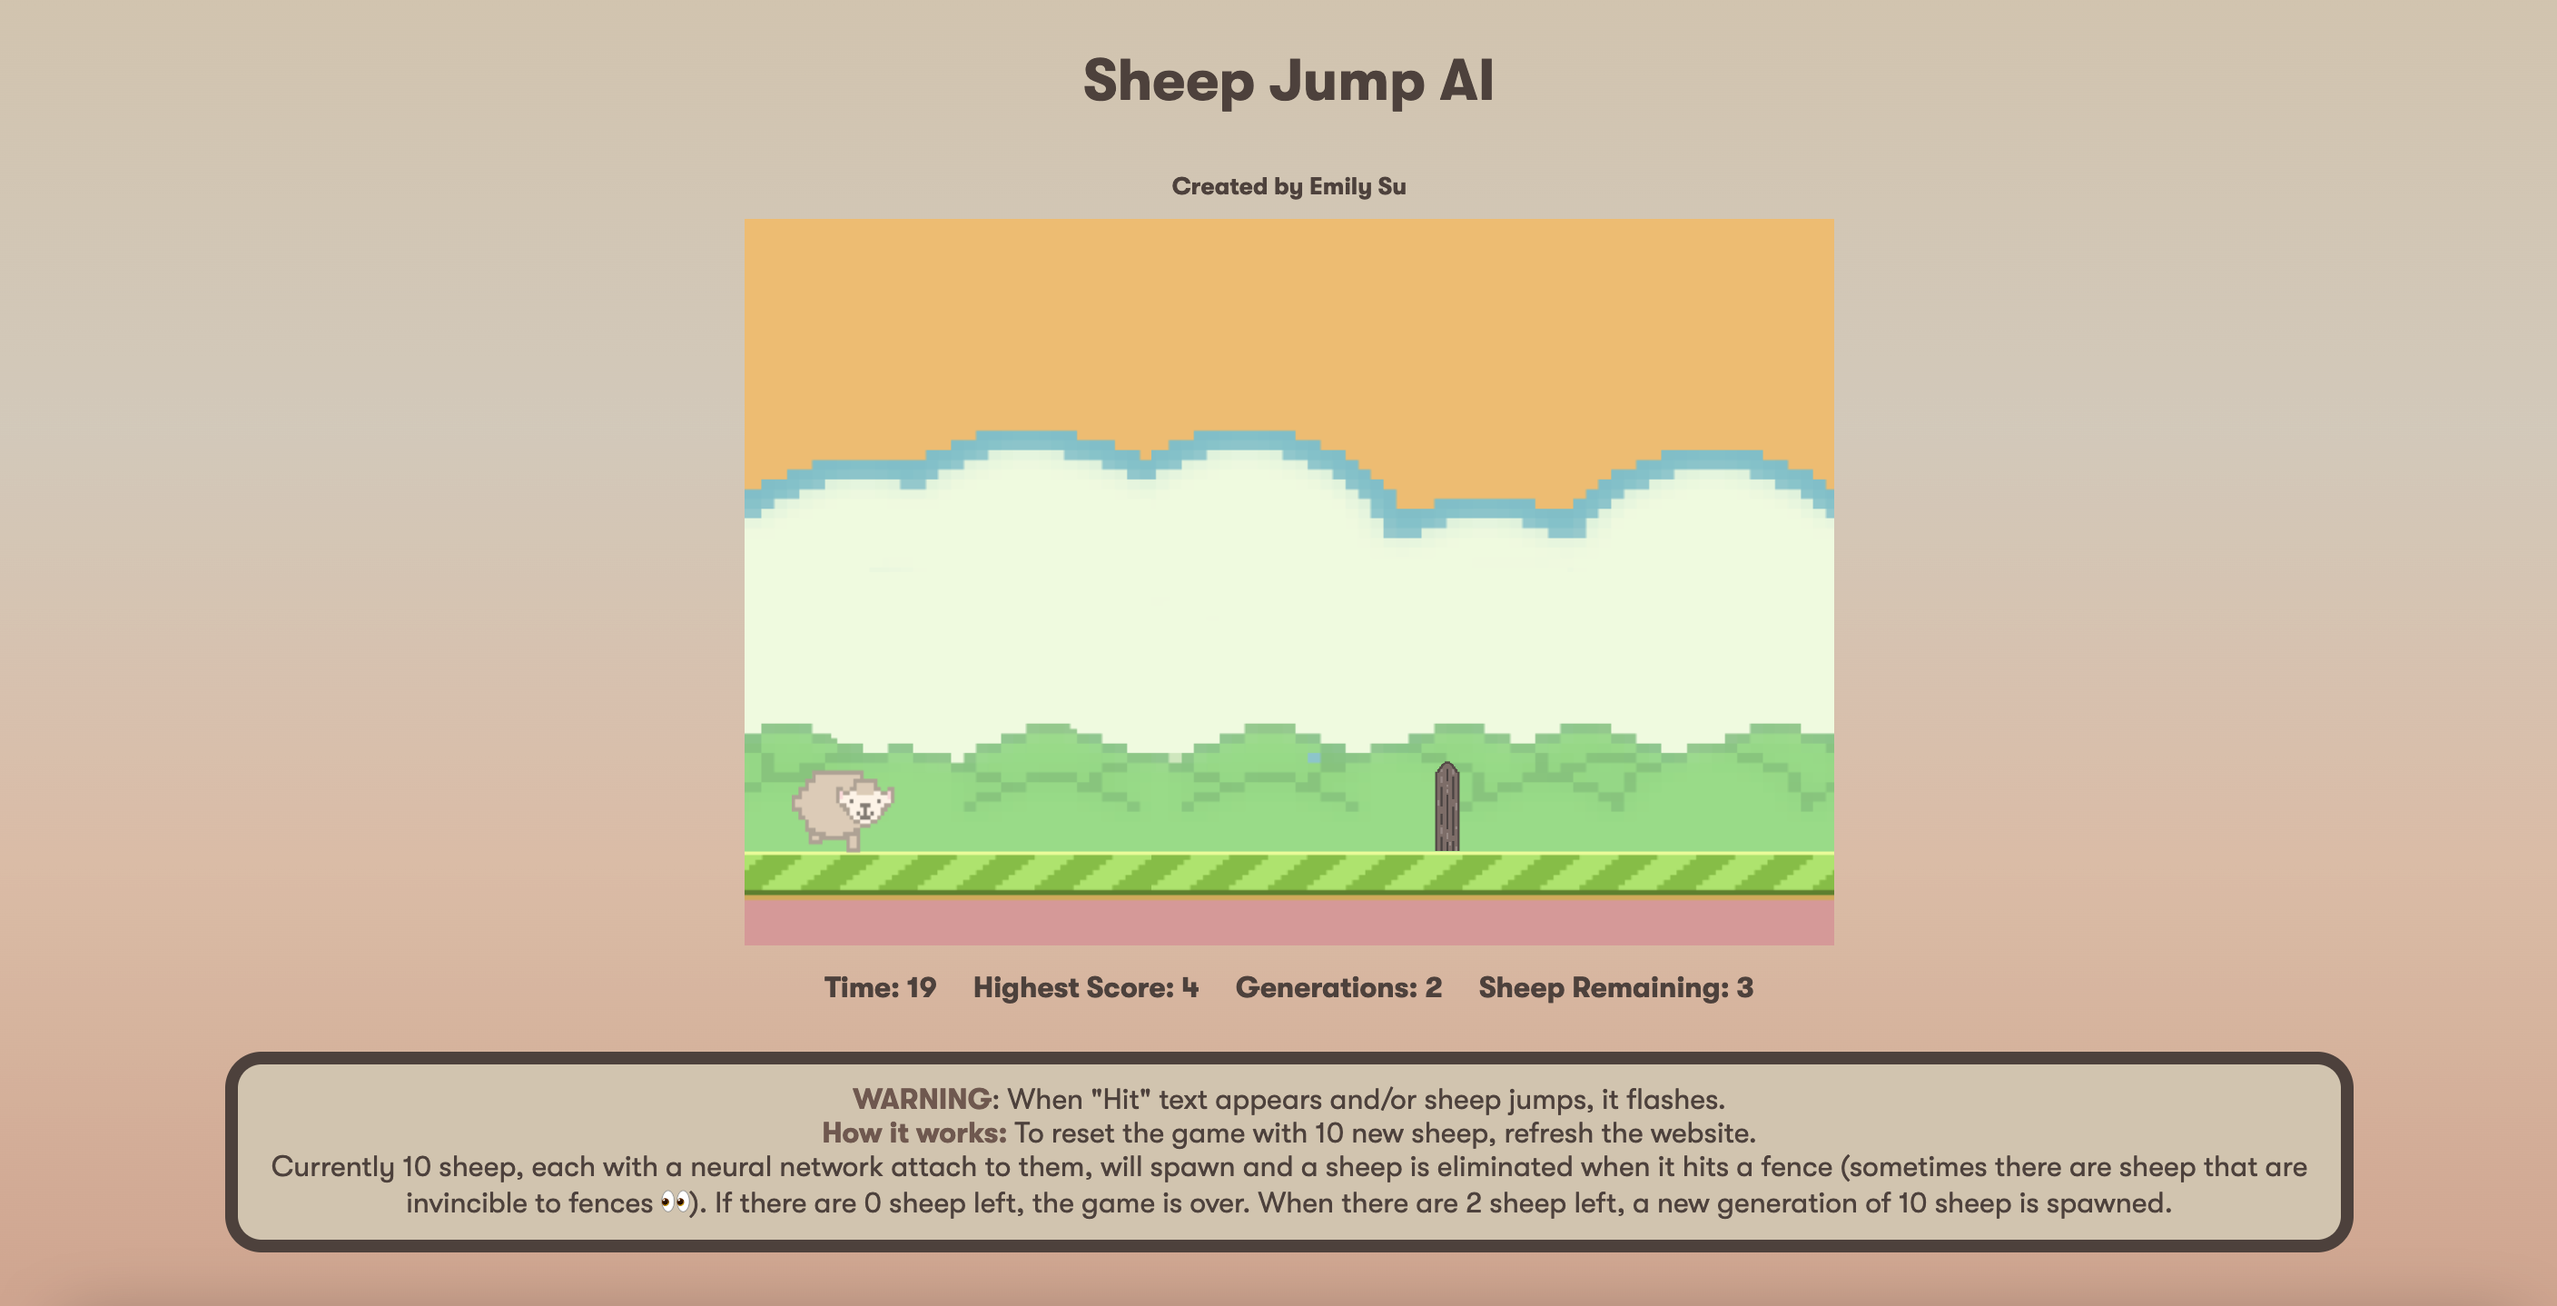
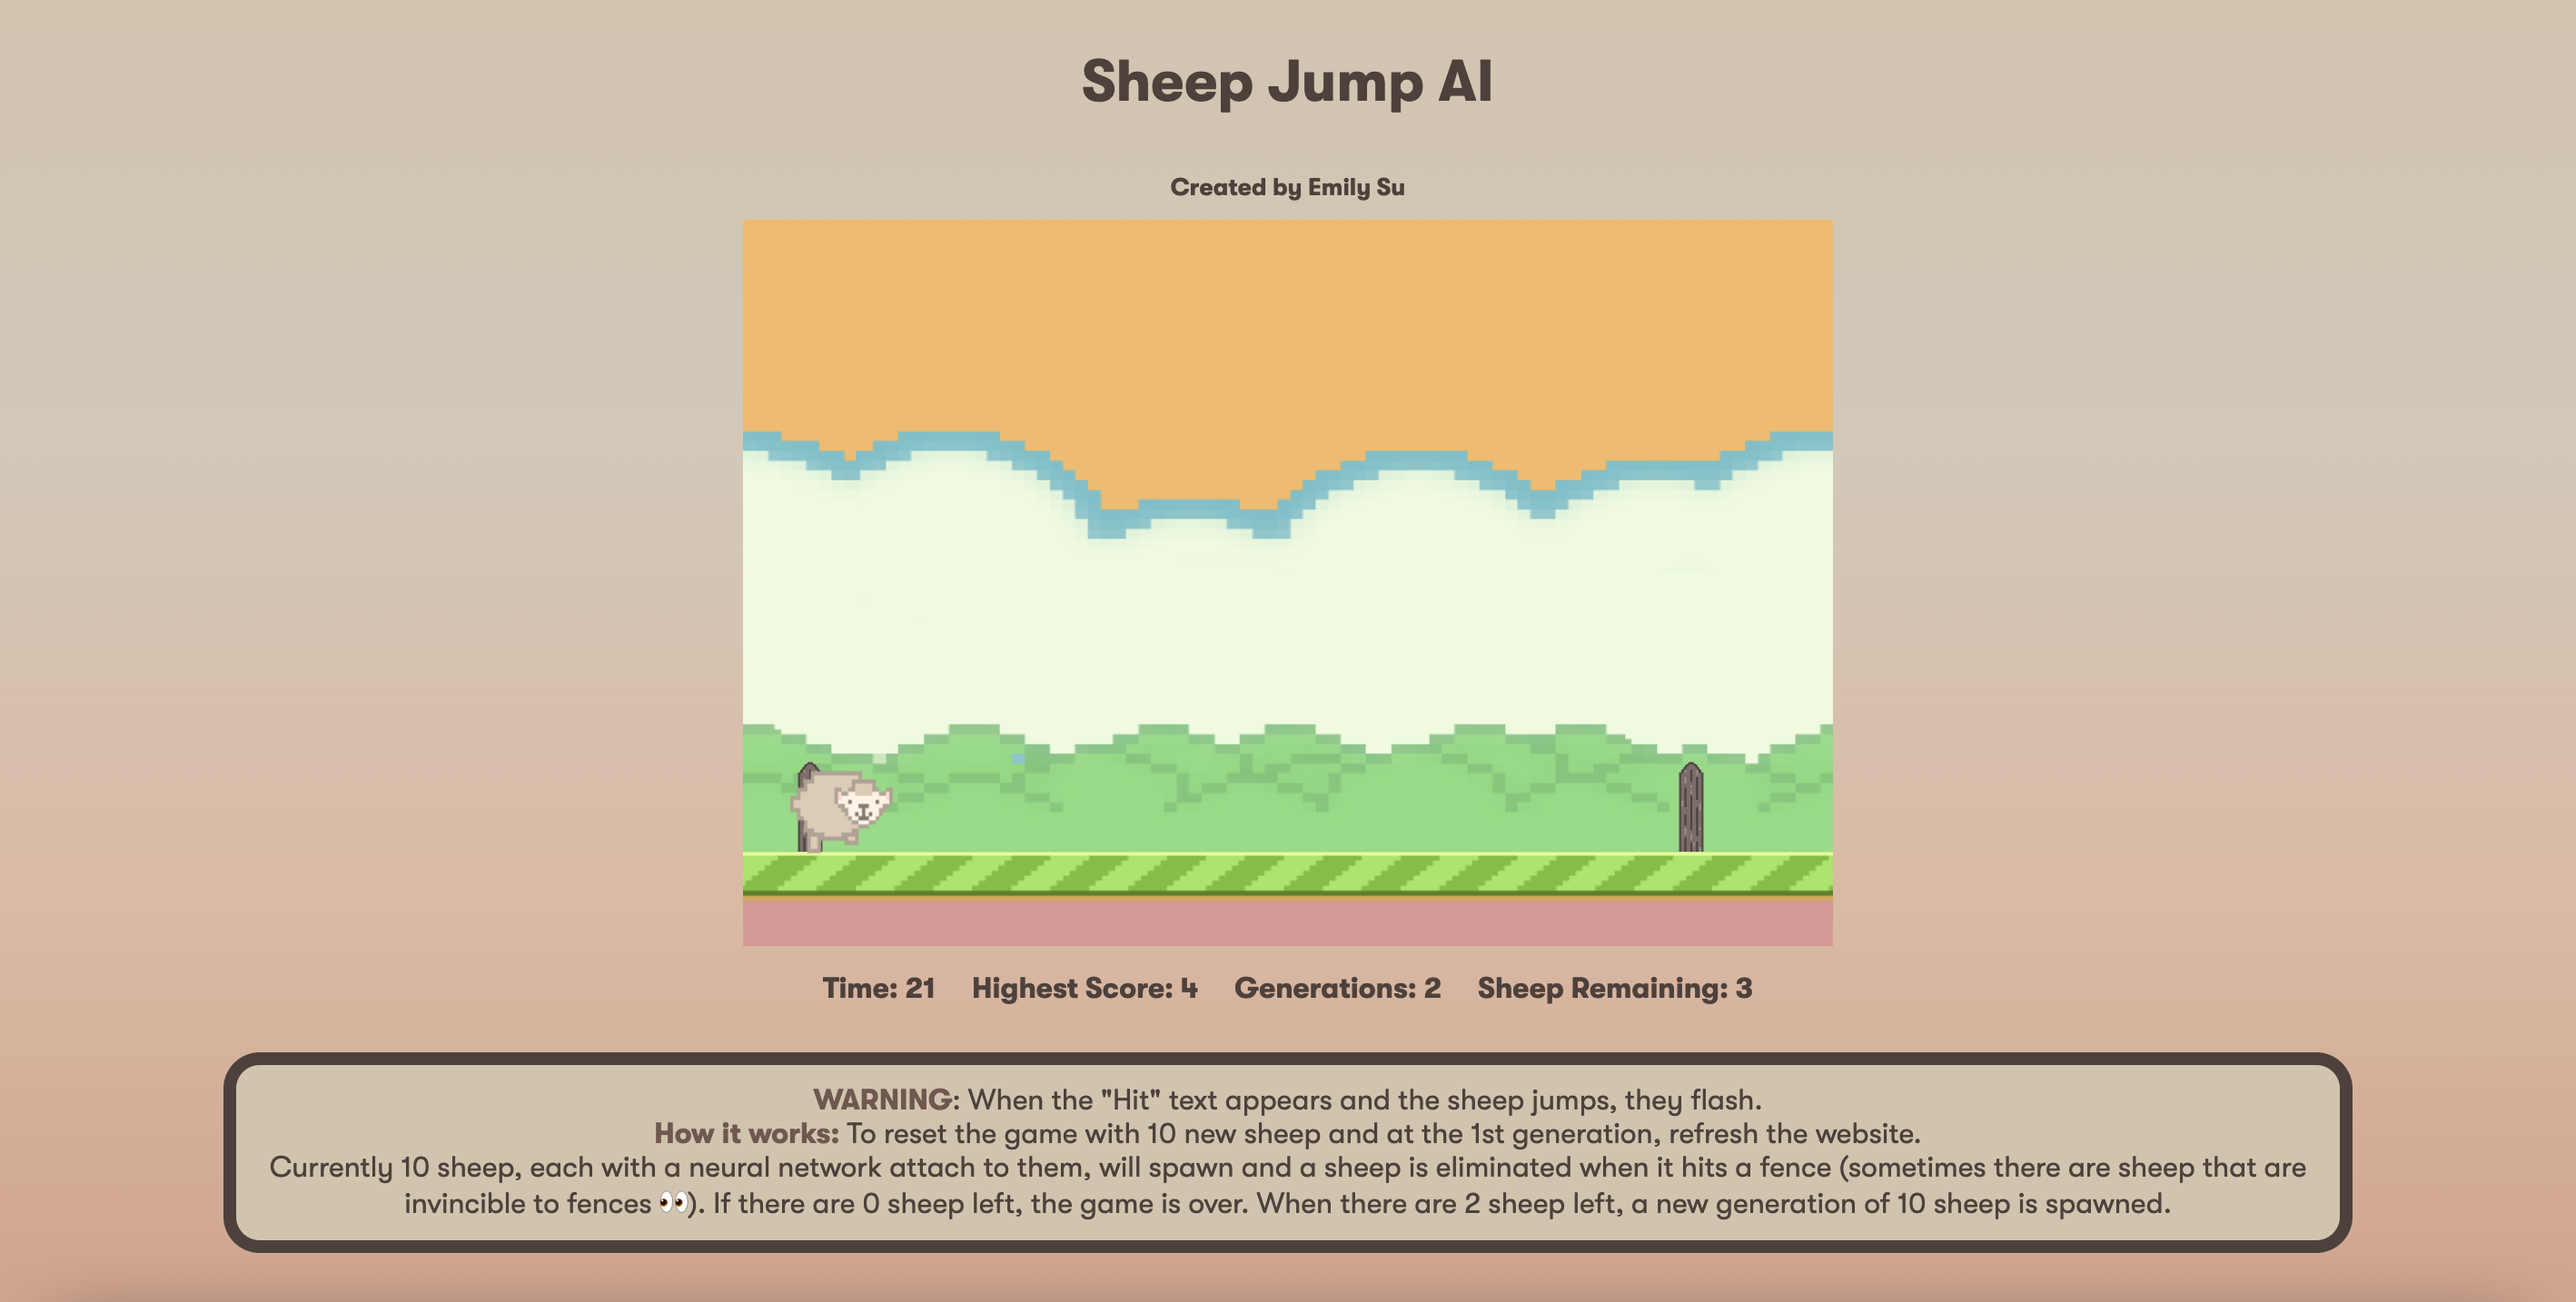
updated text and image

diff --git a/index.html b/index.html
@@ -32,8 +32,8 @@
     <h4 id = "remaining"> Sheep remaining: 10</h4>
   </div>
   <!-- How it works-->
-  <p id = "how"> <span>WARNING</span>: When "Hit" text appears and/or sheep jumps, it flashes.
-    <br><span>How it works:</span> To reset the game with 10 new sheep, refresh the website.
+  <p id = "how"> <span>WARNING</span>: When the "Hit" text appears and the sheep jumps, they flash.
+    <br><span>How it works:</span> To reset the game with 10 new sheep and at the 1st generation, refresh the website.
   <br>Currently 10 sheep, each with a neural network attach to them, will spawn and a sheep is eliminated when it hits a fence (sometimes there are sheep that are invincible to fences 👀). 
     If there are 0 sheep left, the game is over. When there are 2 sheep left, a new generation of 10 sheep is spawned.</p>
   <!-- <input type="number" id="number" name="number" min="0" max="50">
